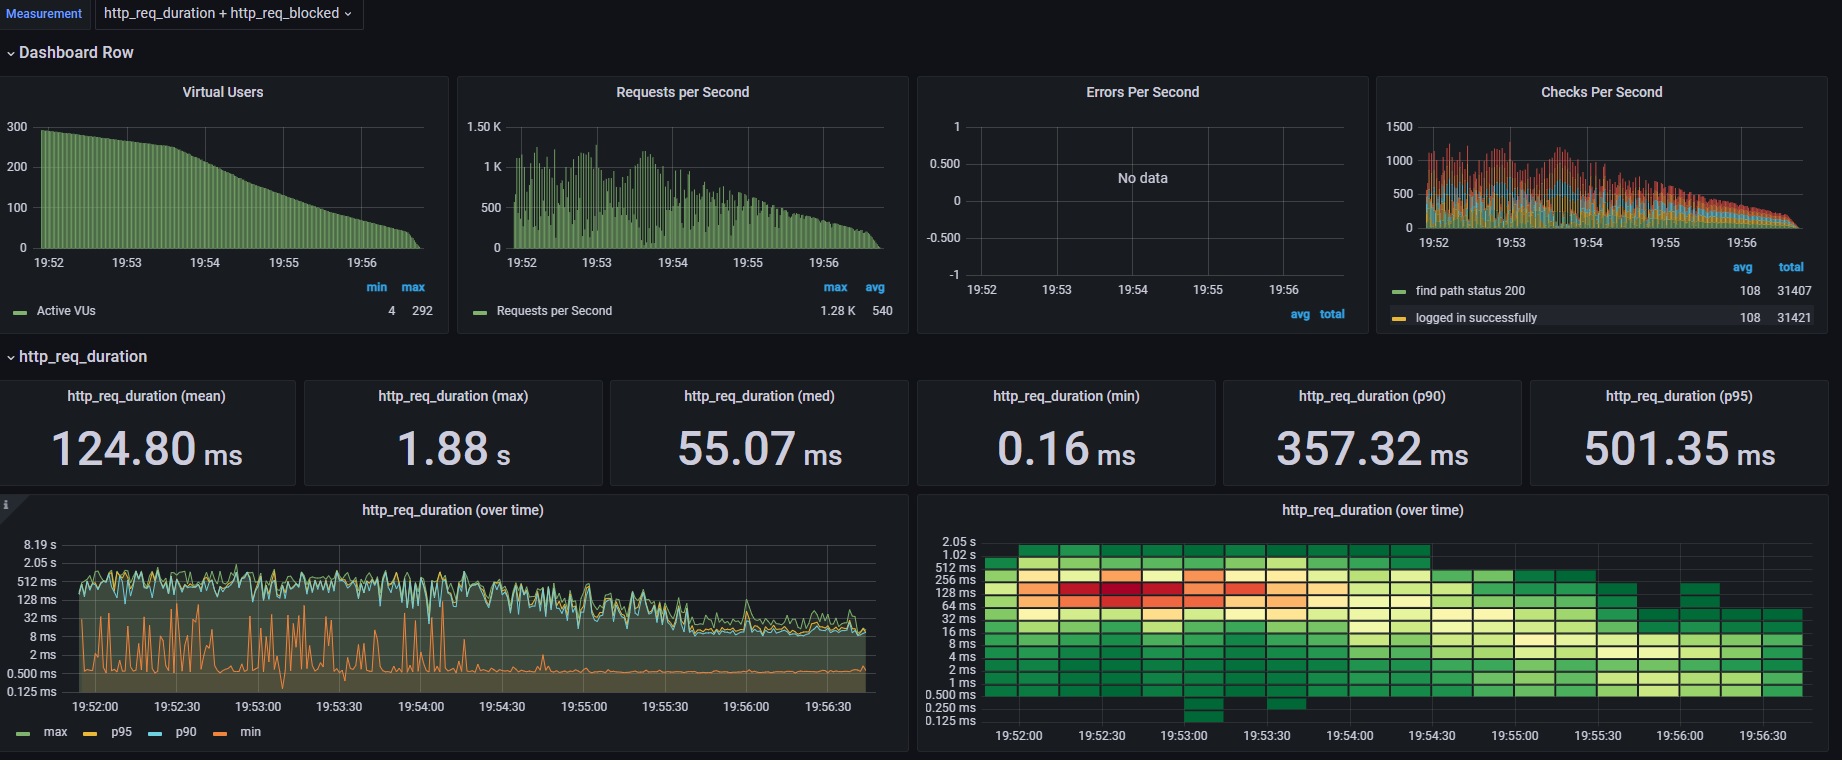
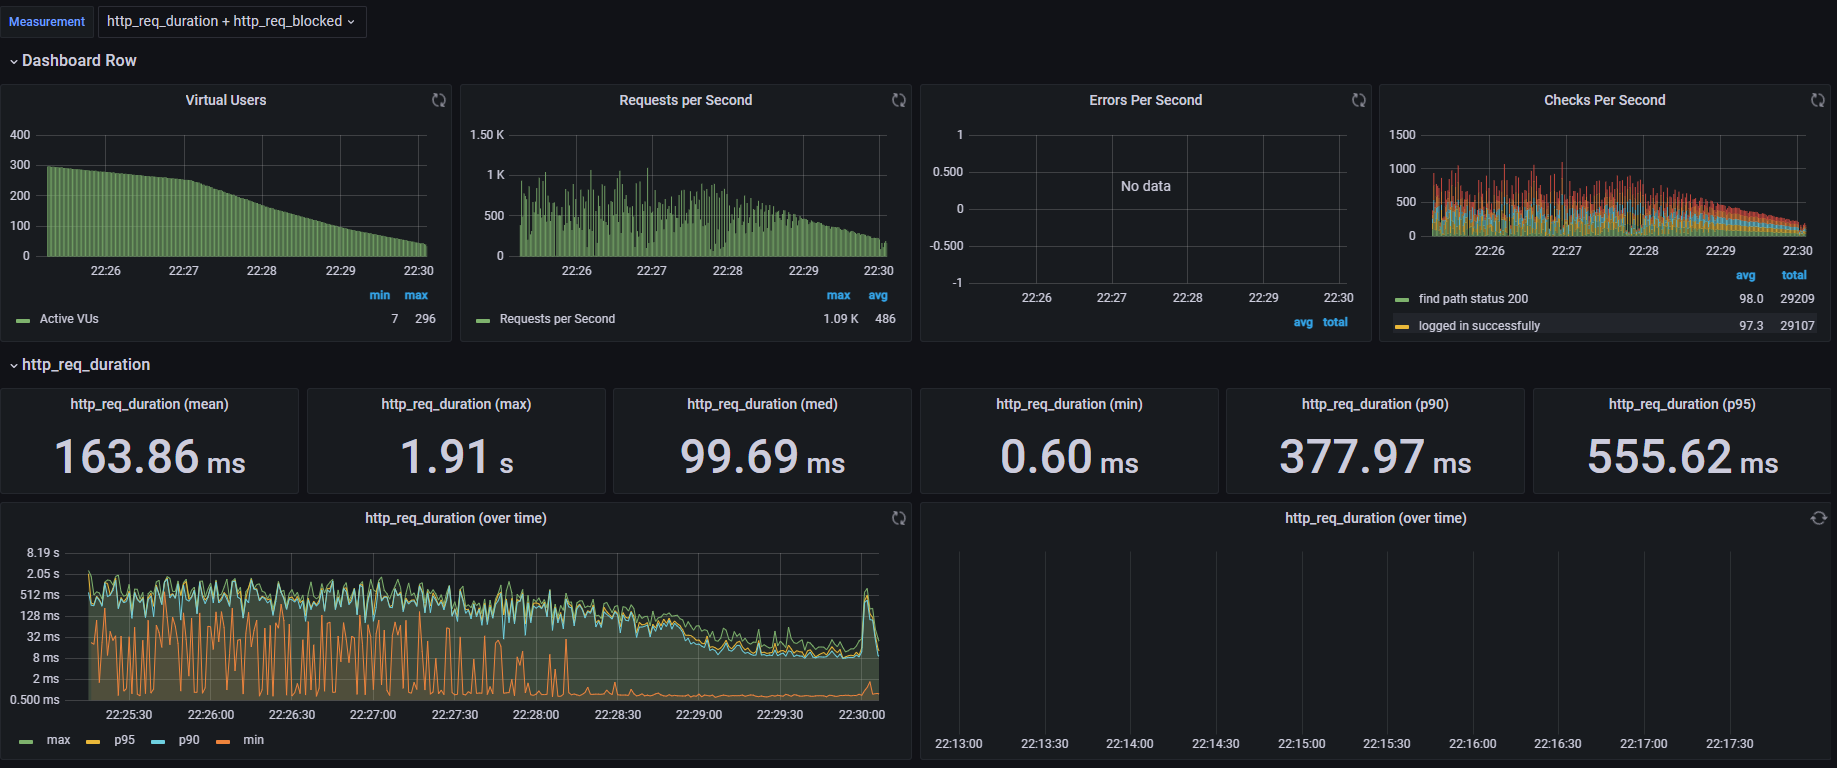
docs: 테스트결과값추가

diff --git a/README.md b/README.md
@@ -44,9 +44,14 @@ npm run dev
 
 ### 1단계 - 화면 응답 개선하기
 1. 성능 개선 결과를 공유해주세요 (Smoke, Load, Stress 테스트 결과)
-
+/monitoring에 결과 저장했습니다
 2. 어떤 부분을 개선해보셨나요? 과정을 설명해주세요
-
+- reverse proxy 개선
+  - gzip 압축을 통해 정적 컨텐츠 크기를 줄였습니다.
+  - 정적컨텐츠 cache를 적용했습니다.
+  - tls,http2를 적용했습니다.
+- was 개선
+  - redis를 사용해서 역,노선,경로 조회에 캐싱을 적욯했습니다.
 ---
 
 ### 2단계 - 스케일 아웃
